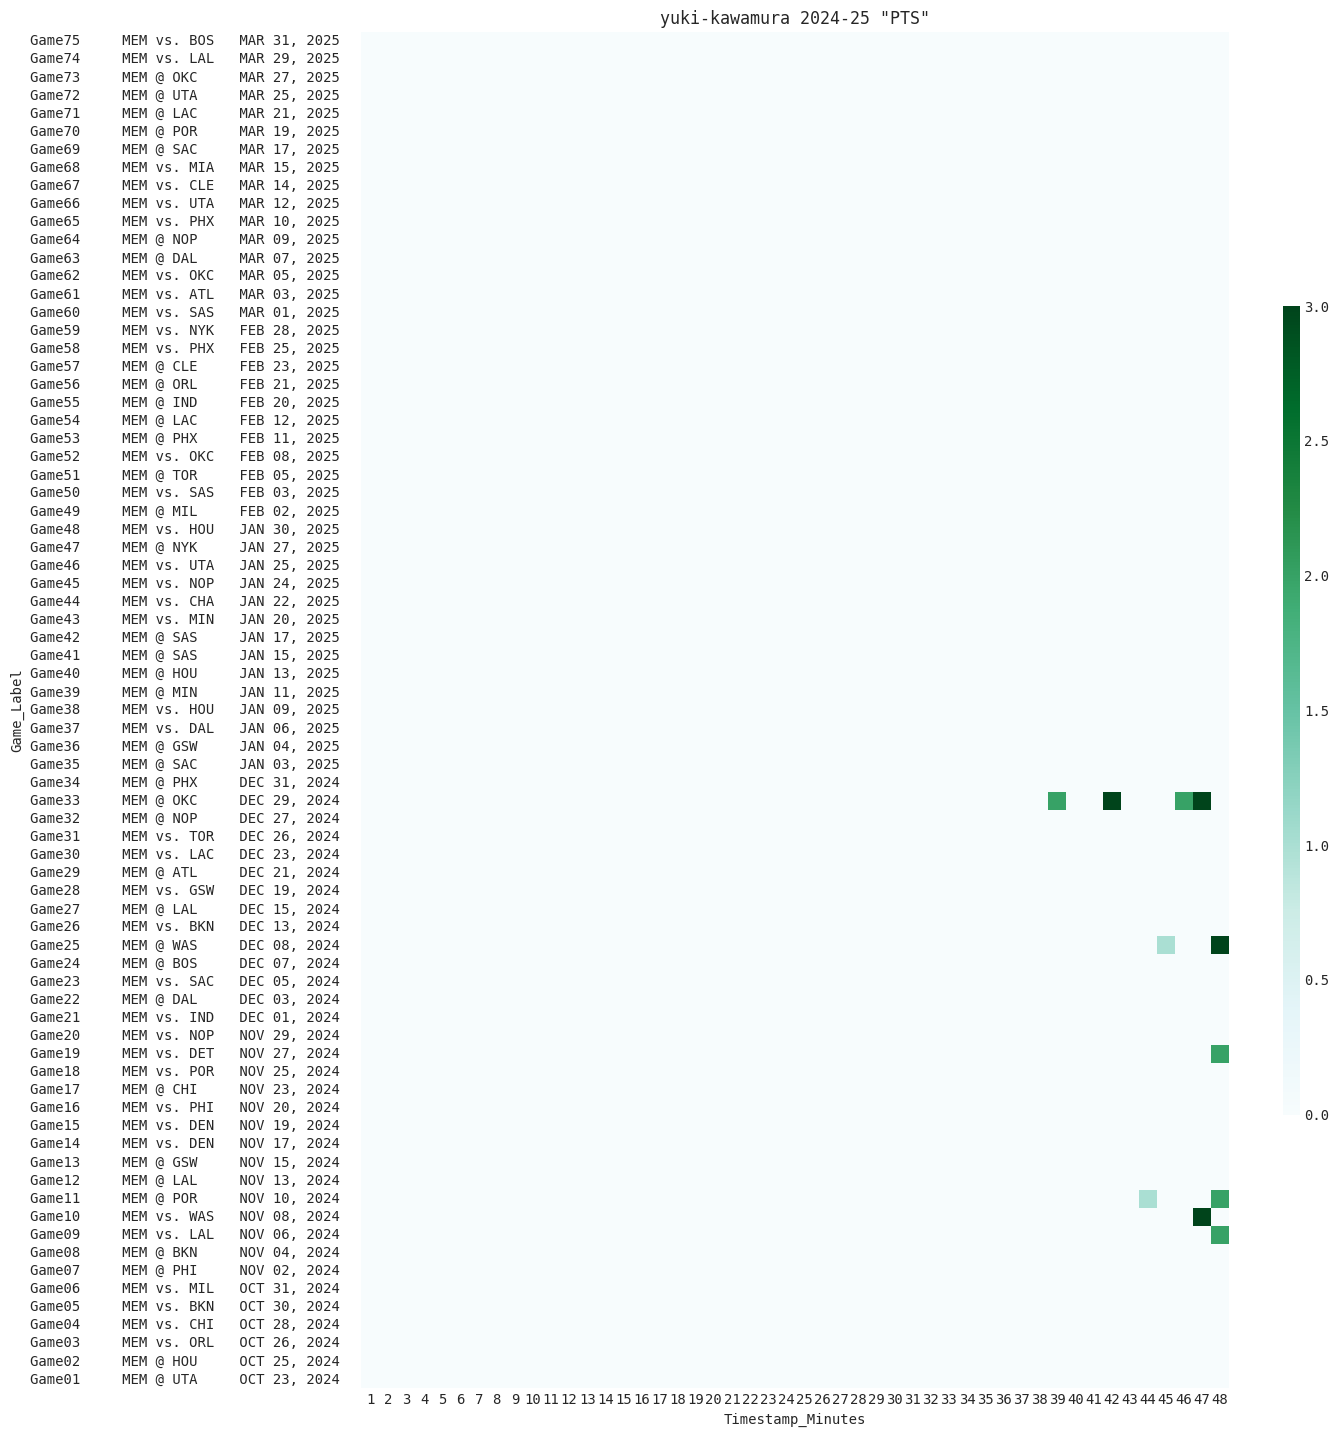
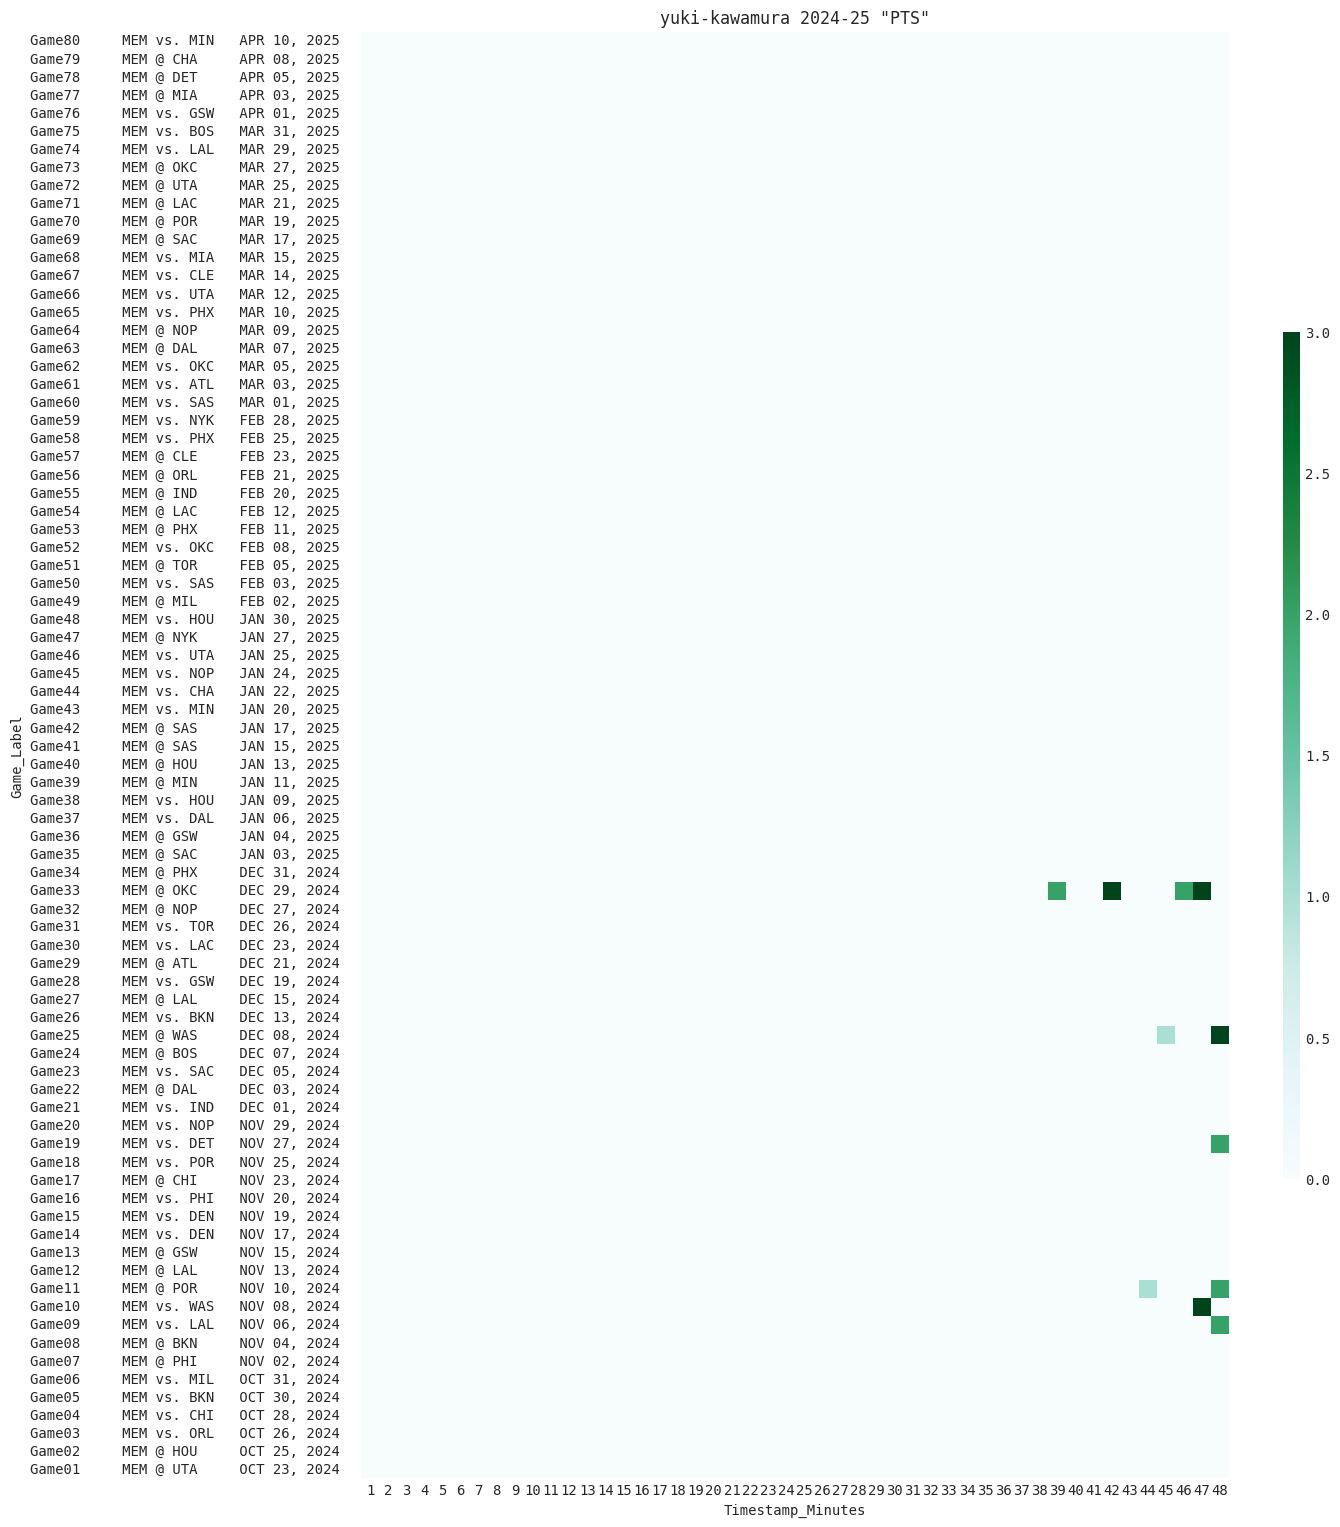
Update the result.

diff --git a/sample.py b/sample.py
@@ -1,26 +1,38 @@
 #!/usr/bin/env python3
 from lib import stats_1min
 import os.path
+import re
+from datetime import datetime, timedelta, timezone
 import pytest
 import traceback
 
 if __name__ == '__main__':
+    JST = timezone(timedelta(hours=+9), 'JST')
     sourceFolder = os.path.dirname(os.path.abspath(__file__))
-    rui   = stats_1min.players.find_players_by_full_name('Rui Hachimura')
-    yuta  = stats_1min.players.find_players_by_full_name('Yuta Watanabe')
     tyuta = stats_1min.players.find_players_by_full_name('Yuta Tabuse')
-    rui_obj = stats_1min.Nba_Player(rui[0]["id"])
-    rui_obj.data_path = sourceFolder + "/data/{}".format(rui_obj.player_slug)
-    rui_obj.add_career_team()
-    rui_obj.add_current_team("2022-23")
-    rui_obj.check_team_game_info()
-    rui_obj.check_played_game_1min_info()
-    yuta_obj = stats_1min.Nba_Player(yuta[0]["id"])
-    yuta_obj.data_path = sourceFolder + "/data/{}".format(yuta_obj.player_slug)
-    yuta_obj.add_career_team()
-    yuta_obj.add_current_team("2022-23")
-    yuta_obj.check_team_game_info()
-    yuta_obj.check_played_game_1min_info()
+    current_season = "2024-25"
+    players = []
+    players.append(stats_1min.players.find_players_by_full_name('Rui Hachimura'))
+    #players.append(stats_1min.players.find_players_by_full_name('Yuta Watanabe'))
+    players.append(stats_1min.players.find_players_by_full_name('Yuki Kawamura'))
+    for player in players:
+        player_obj = stats_1min.Nba_Player(player[0]["id"])
+        player_obj.data_path = sourceFolder + "/data/{}".format(player_obj.player_slug)
+        #player_obj.add_career_team()
+        player_obj.add_current_team(current_season)
+        player_obj.check_team_game_info()
+        player_obj.check_played_game_1min_info()
+        #
+        player_obj.add_career_team()
+        filepath = sourceFolder + "/" + current_season + ".md"
+        time_stamp = "Last Update: {0}".format(datetime.now(JST).strftime("%Y-%m-%d %H:%M:%S"))
+        with open(filepath, 'r') as f:
+            doc = f.read()
+        doc = re.sub(r'Last Update:.*', time_stamp, doc)
+        with open(filepath, 'w') as f:
+            f.write(doc)
+        player_obj.get_heatmap(current_season, "MIN", "Blues", save_dir=sourceFolder + "/images")
+        player_obj.get_heatmap(current_season, "PTS", "BuGn",  save_dir=sourceFolder + "/images")
     """Yuta
     try:
         for idx, row in yuta_obj.season["2020-21"]["game_info"][0].iterrows():

diff --git a/2024-25.md b/2024-25.md
@@ -1,5 +1,5 @@
 ## 活躍状況 2024-25 シーズン
-> Last Update: 2025-04-01 23:25:52
+> Last Update: 2025-04-11 21:49:04
 - (注)オーバータイム時の情報は対象外です。
 
 ### 八村塁 Rui Hachimura
